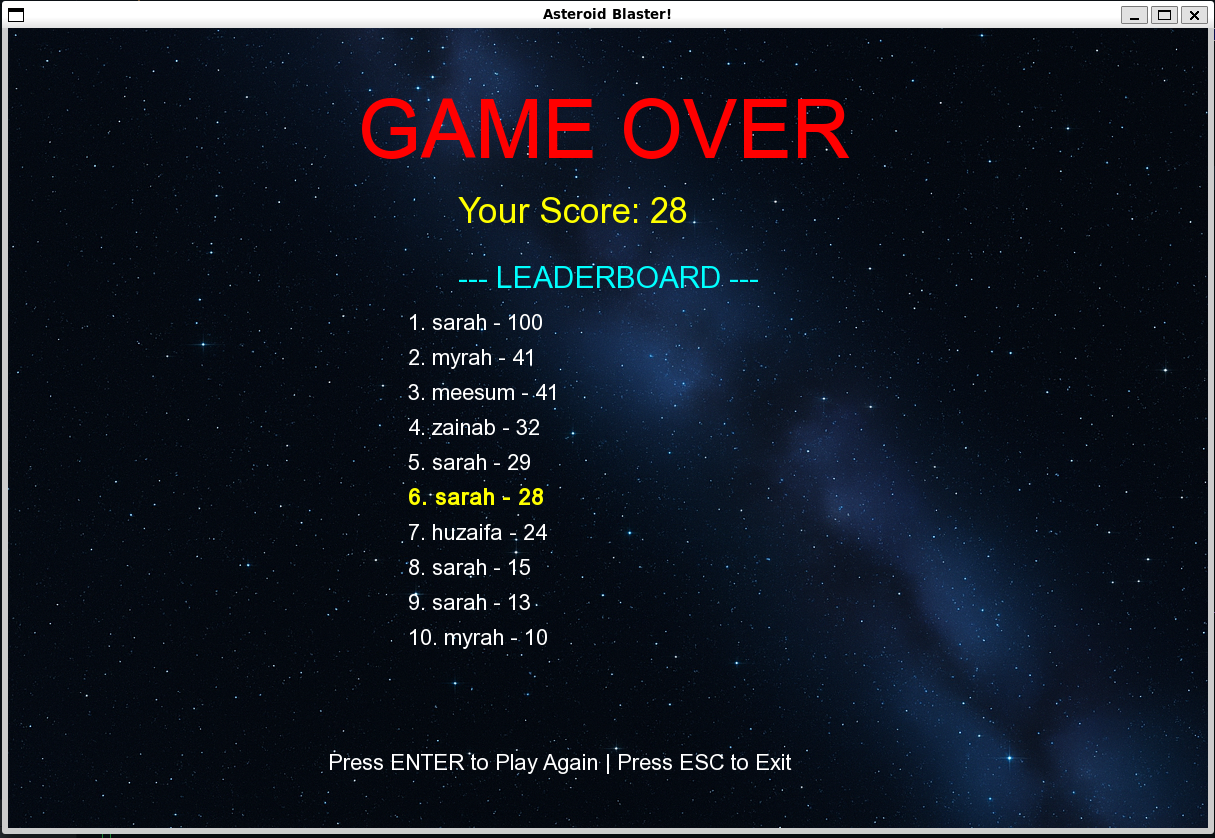
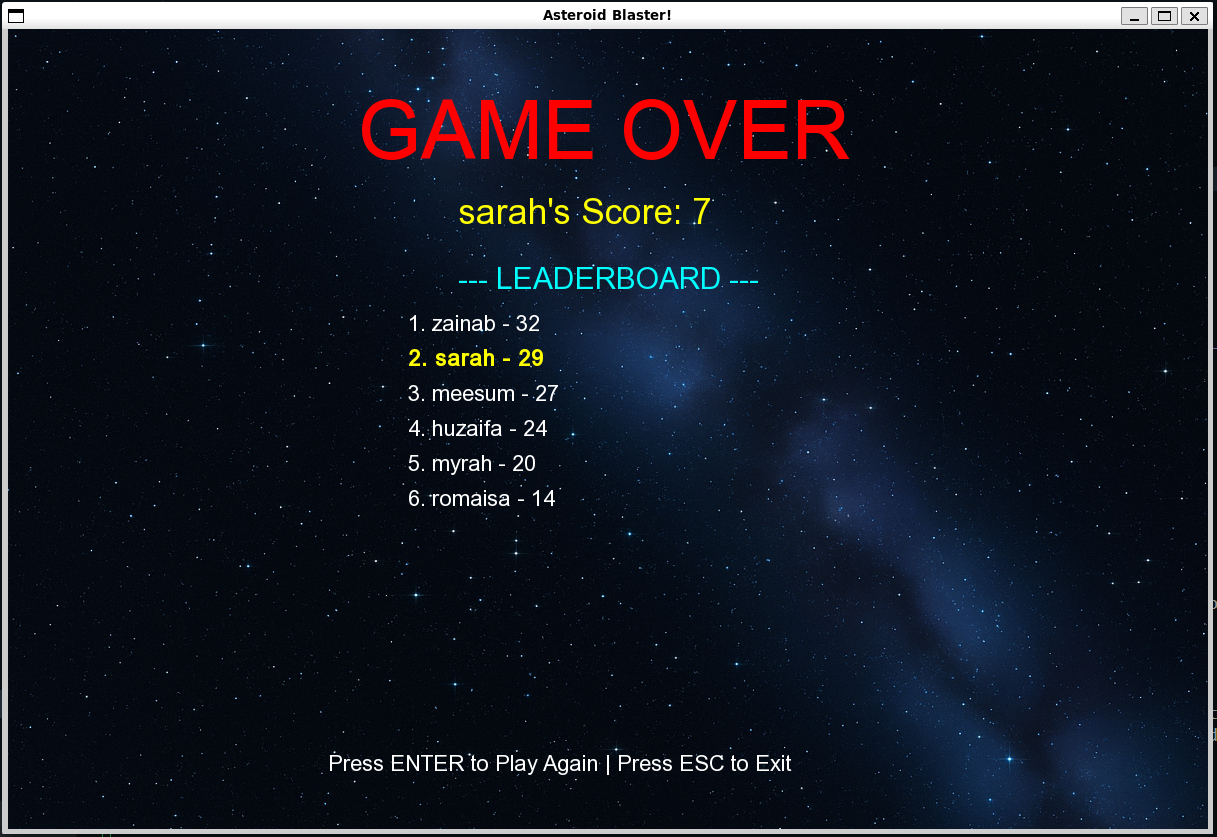
added a makefile and updated readme

diff --git a/README.md b/README.md
@@ -43,19 +43,33 @@ Before running the game, ensure you have:
 
 ##  Compilation
 
-### Windows (MinGW)
+### Option 1: Using Makefile (Recommended)
+
+If you have `make` installed:
 
 ```bash
-g++ main.cpp src\Animation.cpp src\Entity.cpp src\Player.cpp src\Asteroid.cpp src\Bullet.cpp src\Globals.cpp src\PowerUp.cpp src\GameState.cpp -I include -I "C:\SFML-2.5.0\include" -L "C:\SFML-2.5.0\lib" -lsfml-graphics -lsfml-window -lsfml-system -o main
+make
 ```
 
+**Makefile Commands:**
+- `make` - Compile the project
+- `make run` - Compile and run the game
+- `make clean` - Remove all build files
+- `make rebuild` - Clean and rebuild from scratch
+
+### Option 2: Manual Compilation
+
+#### Linux/WSL
+
+```bash
+g++ main.cpp src/Animation.cpp src/Entity.cpp src/Player.cpp src/Asteroid.cpp src/Bullet.cpp src/Globals.cpp src/PowerUp.cpp src/GameState.cpp -I include -lsfml-graphics -lsfml-window -lsfml-system -o main
+```
 
 ### Run the Game
 
 ```bash
 ./main
 ```
-
 
 ##  How to Play
 
@@ -171,6 +185,10 @@ This project is created for educational purposes as part of an OOP course projec
 
 
 *Destroy asteroids, collect power-ups, and dominate the leaderboard!*
+
+
+
+
 
 
 
